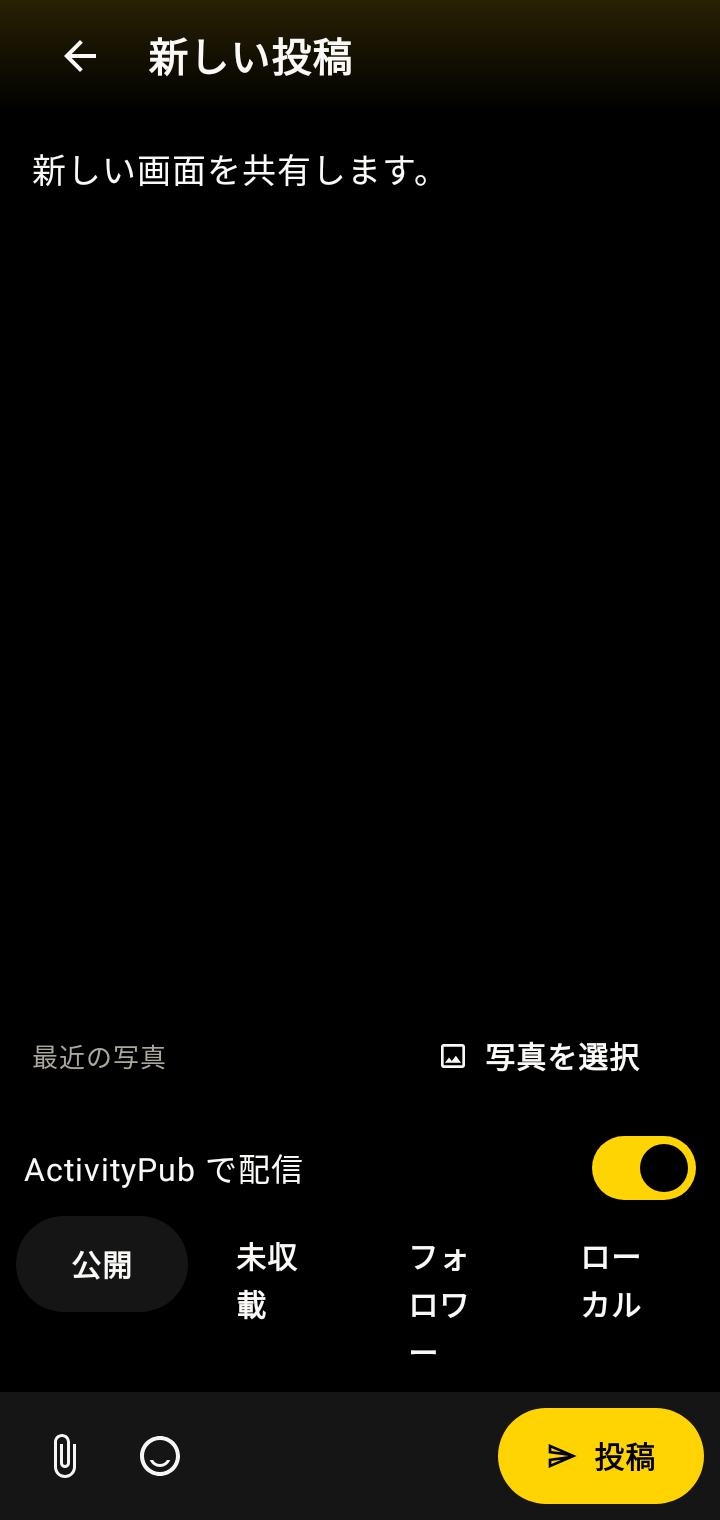
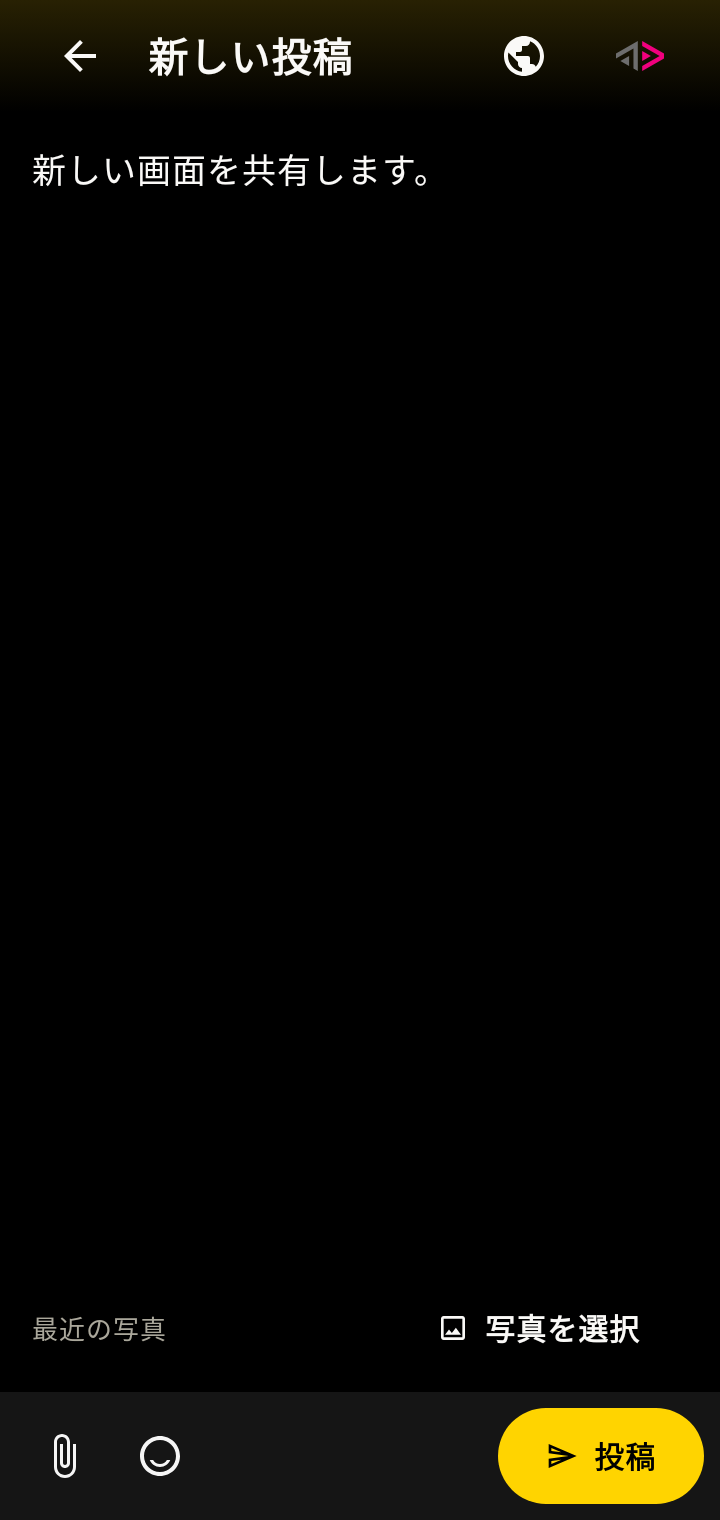
Move Android post audience and ActivityPub controls to header

diff --git a/frontend-compose/androidApp/src/main/kotlin/zoo/android/ui/SecondaryPages.kt b/frontend-compose/androidApp/src/main/kotlin/zoo/android/ui/SecondaryPages.kt
@@ -1,5 +1,6 @@
 package zoo.android.ui
 
+import androidx.compose.foundation.Canvas
 import androidx.compose.foundation.background
 import androidx.compose.foundation.clickable
 import androidx.compose.foundation.layout.*
@@ -11,17 +12,28 @@ import androidx.compose.foundation.shape.CircleShape
 import androidx.compose.foundation.shape.RoundedCornerShape
 import androidx.compose.foundation.text.BasicTextField
 import androidx.compose.material3.CircularProgressIndicator
+import androidx.compose.material3.DropdownMenu
+import androidx.compose.material3.DropdownMenuItem
 import androidx.compose.material3.LocalTextStyle
 import androidx.compose.material3.Text
 import androidx.compose.runtime.Composable
+import androidx.compose.runtime.getValue
+import androidx.compose.runtime.mutableStateOf
+import androidx.compose.runtime.remember
+import androidx.compose.runtime.setValue
 import androidx.compose.ui.Alignment
 import androidx.compose.ui.Modifier
 import androidx.compose.ui.draw.clip
+import androidx.compose.ui.geometry.Offset
 import androidx.compose.ui.graphics.Brush
 import androidx.compose.ui.graphics.Color
 import androidx.compose.ui.graphics.SolidColor
+import androidx.compose.ui.graphics.drawscope.scale
+import androidx.compose.ui.graphics.vector.PathParser
 import androidx.compose.ui.platform.testTag
 import androidx.compose.ui.semantics.Role
+import androidx.compose.ui.semantics.contentDescription
+import androidx.compose.ui.semantics.semantics
 import androidx.compose.ui.text.font.FontWeight
 import androidx.compose.ui.text.style.TextAlign
 import androidx.compose.ui.unit.dp
@@ -94,7 +106,12 @@ internal fun NewPostPage(
     photo: @Composable (RecentPhoto, Modifier) -> Unit,
 ) {
     val input = screen.input
-    PageHeader("新しい投稿", colors, onBack = { dispatch(AndroidUiAction.Back) })
+    PageHeader("新しい投稿", colors, onBack = { dispatch(AndroidUiAction.Back) }) {
+        screen.visibility?.let { PostAudienceButton(it, colors, dispatch) }
+        screen.federate?.let { enabled ->
+            FederationButton(enabled, colors) { dispatch(AndroidUiAction.OpenSetting("toggle-federation")) }
+        }
+    }
     Column(Modifier.fillMaxSize().imePadding()) {
         BasicTextField(
             input.text, { dispatch(AndroidUiAction.TextChanged(it)) },
@@ -134,20 +151,6 @@ internal fun NewPostPage(
                     photo(item, Modifier.size(72.dp).clip(RoundedCornerShape(10.dp)))
                     TextAction("削除", colors, icon = UiIcon.Delete, style = TextActionStyle.Plain) { dispatch(AndroidUiAction.RemoveFile(item.id)) }
                 }
-            }
-        }
-        screen.federate?.let { enabled ->
-            Row(Modifier.fillMaxWidth().padding(horizontal = 12.dp).heightIn(min = 48.dp)
-                .clickable { dispatch(AndroidUiAction.OpenSetting("toggle-federation")) },
-                verticalAlignment = Alignment.CenterVertically) {
-                Text("ActivityPub で配信", Modifier.weight(1f), color = colors.foreground)
-                androidx.compose.material3.Switch(enabled, onCheckedChange = null)
-            }
-        }
-        if (screen.visibility != null) Row(Modifier.fillMaxWidth().padding(horizontal = 8.dp)) {
-            for ((id, label) in listOf("public" to "公開", "unlisted" to "未収載", "followers" to "フォロワー", "local" to "ローカル")) {
-                TextAction(label, colors, style = if (id == screen.visibility) TextActionStyle.Neutral else TextActionStyle.Plain,
-                    modifier = Modifier.weight(1f)) { dispatch(AndroidUiAction.SelectPostVisibility(id)) }
             }
         }
         Row(
@@ -241,5 +244,56 @@ private fun ChannelField(
             textStyle = LocalTextStyle.current.copy(color = colors.inputText, fontSize = 16.sp),
             cursorBrush = SolidColor(colors.inputText),
         )
+    }
+}
+
+
+@Composable
+private fun PostAudienceButton(visibility: String, colors: AndroidColors, dispatch: (AndroidUiAction) -> Unit) {
+    val audience = PostAudience.fromApi(visibility) ?: return
+    var expanded by remember { mutableStateOf(false) }
+    Box {
+        UiIconButton(audience.icon, "公開範囲：${audience.label}", colors.foreground, { expanded = true })
+        DropdownMenu(expanded = expanded, onDismissRequest = { expanded = false }, containerColor = colors.background) {
+            val options = listOf("public", "unlisted", "followers", "local")
+            for (id in options) {
+                val option = requireNotNull(PostAudience.fromApi(id))
+                DropdownMenuItem(
+                    text = { Text(option.label, color = colors.foreground) },
+                    leadingIcon = { UiGlyph(option.icon, colors.secondary, AndroidControlSize.inlineIcon) },
+                    trailingIcon = if (id == visibility) {
+                        { UiGlyph(UiIcon.Check, colors.foreground, AndroidControlSize.inlineIcon) }
+                    } else null,
+                    onClick = {
+                        expanded = false
+                        dispatch(AndroidUiAction.SelectPostVisibility(id))
+                    },
+                )
+            }
+        }
+    }
+}
+
+@Composable
+private fun FederationButton(enabled: Boolean, colors: AndroidColors, onToggle: () -> Unit) {
+    Box(
+        Modifier.size(AndroidControlSize.target).clip(CircleShape)
+            .toggleable(value = enabled, role = Role.Switch, onValueChange = { onToggle() })
+            .semantics { contentDescription = "ActivityPub で配信" },
+        contentAlignment = Alignment.Center,
+    ) {
+        // ActivityPub mark by mray, CC0. https://activitypub.rocks/images/ActivityPub-logo.svg
+        val left = remember {
+            PathParser().parsePathString("M10.91,4.44 0,10.74 0,13.26 8.73,8.22 8.73,18.30 10.91,19.56ZM6.55,12 2.18,14.52 6.55,17.04Z").toPath()
+        }
+        val right = remember {
+            PathParser().parsePathString("M13.09,4.44 24,10.74 24,13.26 13.09,19.56 13.09,17.04 21.82,12 13.09,6.96ZM13.09,9.48 17.45,12 13.09,14.52Z").toPath()
+        }
+        Canvas(Modifier.size(AndroidControlSize.icon)) {
+            scale(size.width / 24f, size.height / 24f, pivot = Offset.Zero) {
+                drawPath(left, if (enabled) Color(0xff6d6d6d) else colors.secondary)
+                drawPath(right, if (enabled) Color(0xfff1007e) else colors.secondary)
+            }
+        }
     }
 }

diff --git a/frontend-compose/ui-preview/src/test/kotlin/zoo/android/ui/AndroidSamplesTest.kt b/frontend-compose/ui-preview/src/test/kotlin/zoo/android/ui/AndroidSamplesTest.kt
@@ -124,6 +124,9 @@ class AndroidSamplesTest {
             "post-compose" to AndroidScreen.NewPost(
                 InputState("新しい画面を共有します。"), emptyList(), true, visibility = "public", federate = true,
             ),
+            "post-compose-federation-off" to AndroidScreen.NewPost(
+                InputState("新しい画面を共有します。"), emptyList(), true, visibility = "unlisted", federate = false,
+            ),
             "profile" to AndroidScreen.Profile("はる", "Android 版をテストしています。写真と通話の感想を投稿します。",
                 homePosts.map {
                     it.copy(author = "はる", postHeader = it.postHeader?.copy(handle = "@haru", channel = null, server = "social.example"))
@@ -226,10 +229,9 @@ class AndroidSamplesTest {
                     ui.onNodeWithText("フォロー").assertHasClickAction()
                 }
                 if (name == "post-compose") {
-                    ui.onNodeWithText("ActivityPub で配信").assertIsDisplayed()
-                    for (audience in listOf("公開", "未収載", "フォロワー", "ローカル")) {
-                        ui.onNodeWithText(audience).assertIsDisplayed()
-                    }
+                    val audience = ui.onNodeWithContentDescription("公開範囲：公開").assertHasClickAction()
+                    val federation = ui.onNodeWithContentDescription("ActivityPub で配信").assertIsOn()
+                    check(audience.getUnclippedBoundsInRoot().top == federation.getUnclippedBoundsInRoot().top)
                     val toolbar = ui.onNodeWithTag("post-actions").getUnclippedBoundsInRoot()
                     val post = ui.onNodeWithText("投稿").assertHeightIsEqualTo(48.dp).getUnclippedBoundsInRoot()
                     val photos = ui.onNodeWithContentDescription("写真").getUnclippedBoundsInRoot()
@@ -237,6 +239,10 @@ class AndroidSamplesTest {
                         post.top - toolbar.top == 8.dp && toolbar.bottom - post.bottom == 8.dp &&
                             toolbar.right - post.right == 8.dp && photos.left - toolbar.left == 8.dp,
                     ) { "Expected an 8dp inset around the post actions: $post / $photos / $toolbar" }
+                }
+                if (name == "post-compose-federation-off") {
+                    ui.onNodeWithContentDescription("公開範囲：未収載").assertIsDisplayed()
+                    ui.onNodeWithContentDescription("ActivityPub で配信").assertIsOff()
                 }
                 if (name == "call") {
                     ui.onNodeWithText("応答").assertHasClickAction()
@@ -258,7 +264,20 @@ class AndroidSamplesTest {
                 capture("$name-${if (night) "dark" else "light"}")
             }
         }
-        ui.runOnIdle { screen = AndroidScreen.Home(homePosts) }
+        ui.runOnIdle { screen = cases.first { it.first == "post-compose" }.second }
+        ui.onNodeWithContentDescription("公開範囲：公開").performClick()
+        for (audience in listOf("公開", "未収載", "フォロワー限定", "ローカル")) {
+            ui.onNodeWithText(audience).assertIsDisplayed()
+        }
+        ui.onNodeWithText("未収載").performClick()
+        ui.onNodeWithContentDescription("ActivityPub で配信").performClick()
+        ui.runOnIdle {
+            check(actions.takeLast(2) == listOf(
+                AndroidUiAction.SelectPostVisibility("unlisted"),
+                AndroidUiAction.OpenSetting("toggle-federation"),
+            ))
+            screen = AndroidScreen.Home(homePosts)
+        }
         val firstPost = hasAnyAncestor(hasTestTag("timeline-entry-1"))
         ui.onNode(firstPost and hasContentDescription("返信"), useUnmergedTree = true).performTouchInput {
             click(center.copy(x = center.x + 15.dp.toPx()))

diff --git a/docs/android-design.md b/docs/android-design.md
@@ -20,7 +20,7 @@ Androidの見た目を変更するときの基準。数値の定義元は
 
 | 画面 | 構成・操作 |
 | --- | --- |
-| ホーム | タブの下に枠なしのタイムライン。本文サイズを保ち、投稿は余白で分ける。投稿の1行目は表示名・IDを左、日時・公開範囲を右に置く。2行目に #チャンネル名、または端に向かって色が薄れる1行の帯でサーバー名を表示する。連合先がテーマカラーを公開していれば帯に使う。各投稿の下に返信・再投稿・リアクション追加・その他を本文の左右端に合わせて等間隔で並べる。鉛筆アイコンで投稿を開く。 |
+| ホーム | タブの下に枠なしのタイムライン。本文サイズを保ち、投稿は余白で分ける。投稿の1行目は表示名・IDを左、日時・公開範囲を右に置く。2行目に #チャンネル名、または端に向かって色が薄れる1行の帯でサーバー名を表示する。連合先がテーマカラーを公開していれば帯に使う。各投稿の下に返信・再投稿・リアクション追加・その他を本文の左右端に合わせて等間隔で並べる。鉛筆アイコンで投稿を開く。投稿作成の上部で公開範囲を選び、ActivityPubロゴで連合配信を切り替える。オンはロゴ本来の色、オフはグレーで表示する。 |
 | ホーム投稿 | 本文と添付のプレビューを同じ下書きに置く。下から最近の写真を出し、OSの写真ピッカーへの入口も提供する。操作バーの四辺に8dpの内側余白を設ける。 |
 | チャンネル一覧 | 上部の検索入口、参加中の一覧、DMの順。チャンネルとDMの作成には＋アイコンを使う。チャンネルとDMは名前を1行で表示する。チャンネル名は未読時に600、個人DMのユーザー名は500で表示する。未読状態は読み上げにも渡す。説明文と行間の区切り線を省き、通常の行高は48dpにそろえる。 |
 | 会話・スレッド | 上部のチャンネル名から設定を開く。会話には下部タブを出さず、入力欄を画面端に配置する。スレッドを閉じたときは元の位置へ戻る。 |
